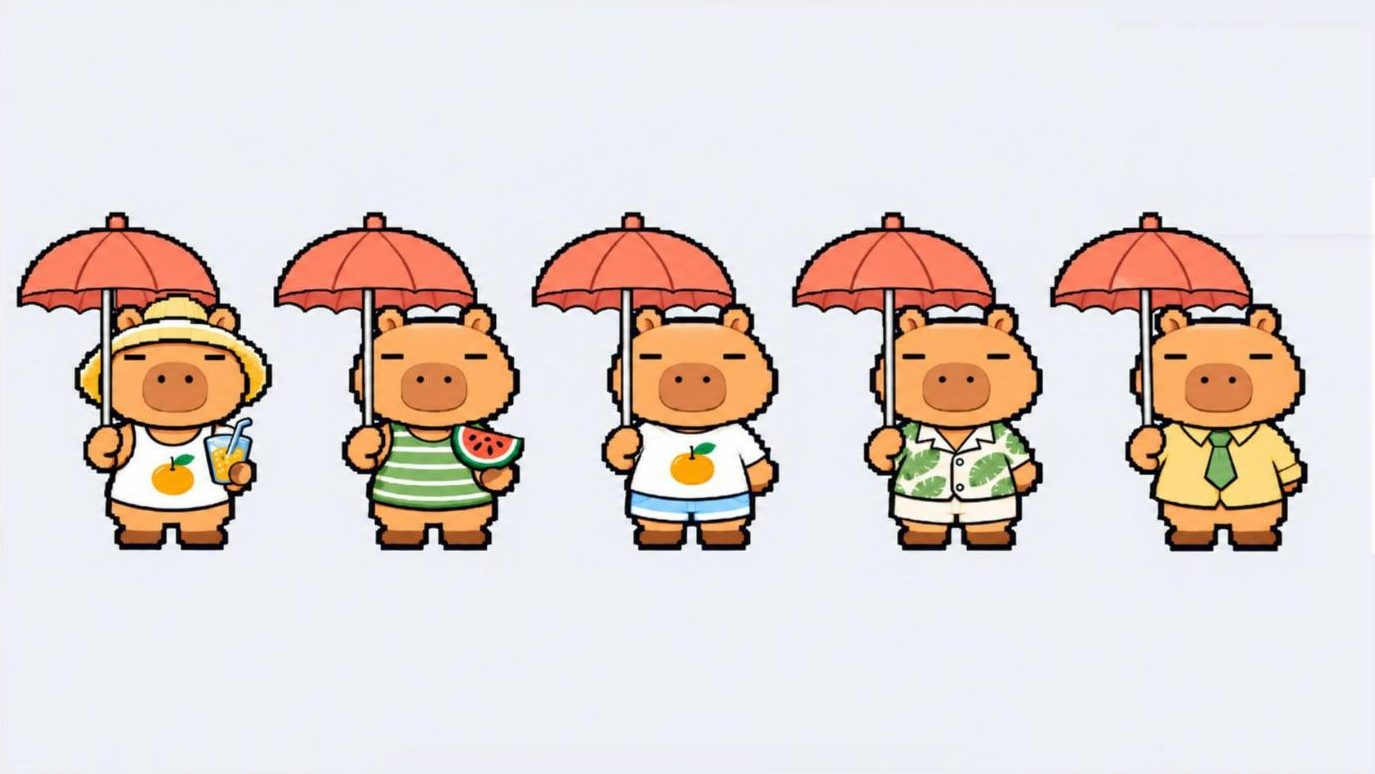
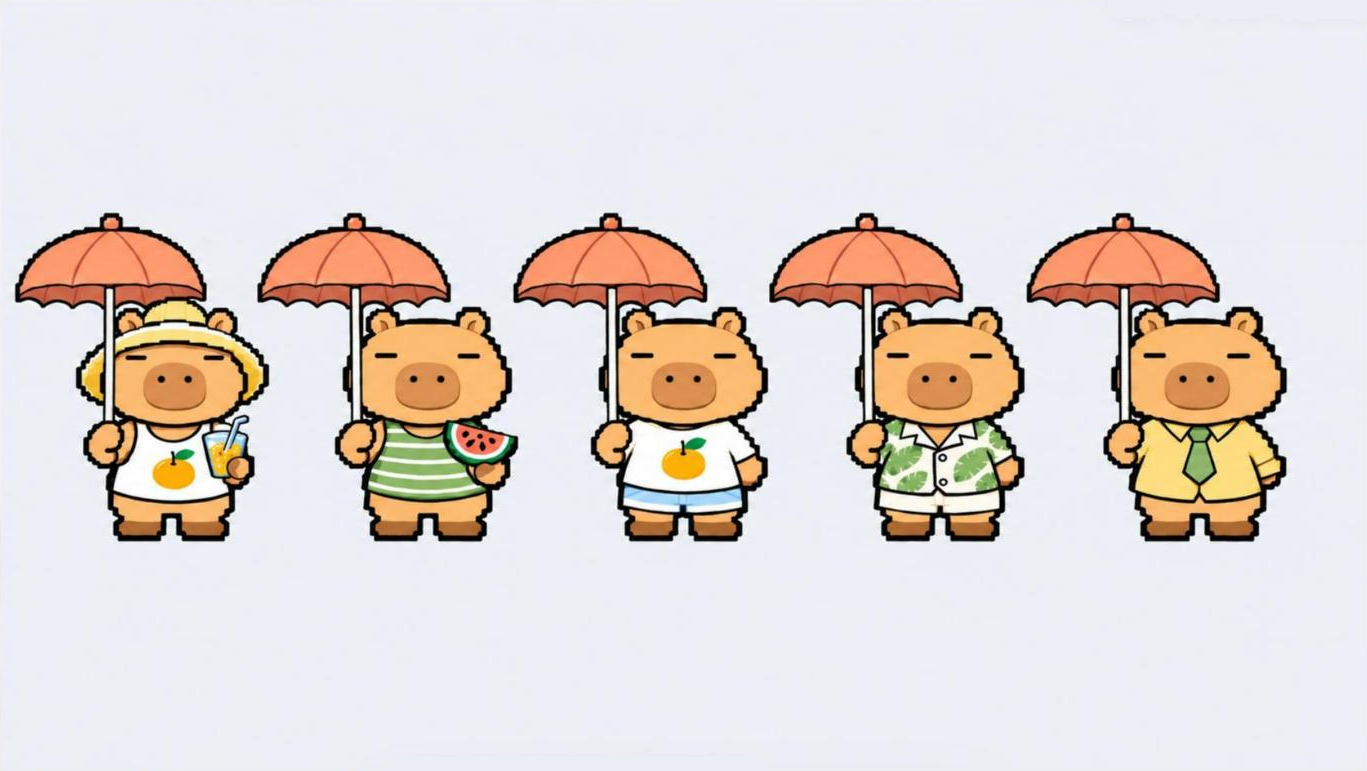
capy: m4 우산 1줄 꼭지↔막대 정렬 (shaft_guide 3px 안) + 1차 결과 보존
Claude-Session: https://claude.ai/code/session_01GWCoj9epSWVAj6uC75kAGB

Changed region(s): [[0.0, 0.249, 0.9525, 0.716]]

diff --git a/docs/characters/log.md b/docs/characters/log.md
@@ -899,3 +899,15 @@ THIS IS A COLOUR CONVERSION ONLY. Redraw the capybara of the first reference ima
 - 캡처: 100% 세로 3분할(408/184) → `capy/edit/m4-stage8-clean3.png` (920×1162). 상단 칩·하단 툴바 띠·오른쪽 여백만 패치.
 - 측정(외곽선 바깥 폭, clean2 → clean3): 턱 쪽 y500 564→598(+6%), y540 486→521(+7%), y560 429→460(+7%),
   볼 y460~480 +2~3%, 정수리·귀·눈·주둥이는 그대로. 목표 8%에 근접.
+
+### 정렬 4차 — 새 대화에서 1차 결과부터 다시 (01:35~)
+
+- 정정: 3차 문구가 "toward the viewer-right"였는데 1·2번 캐노피는 이미 막대보다 오른쪽 → 방향이 반대라 과보정. 제 실수.
+- 새 대화 "Edit Umbrella Canopy" (`…/c/6af49a62-c520-83e8-b4ec-74a4ca09561a`): 1차 결과(`edit/m4-umb-row1-v1.png`)
+  + 그 shaft_guide 첨부, "Only the FIRST … about 8 pixels toward the viewer-LEFT … Do not draw the red line." 1차 채택.
+- 결과는 ChatGPT가 줄 전체를 다시 그려 약 22% 작아짐(캐노피 폭 237→184, 주둥이 86→65). 100% 세로 2분할(off 213)
+  → `capy/m4-umb-row1.png` (1367×771). 아래 샷 머리띠 칩이 5번 캐노피에 겹쳐 아래 샷 위 48줄은 빼고 스티칭.
+- shaft_guide 원본은 이 그림의 밝은 캐노피를 hue<0.045에서 조각내 엉뚱한 값을 냄 → hue<0.075 + closing으로 재측정:
+  막대↔캐노피 중심 2·3·3·3·1px (3px 기준 통과). 같은 방식으로 1차는 8·1·1·5·1px.
+- 주의: 캐노피 색이 #FA986D로 밝아짐(1차 #F78865, 목표 #F26B5B). sprite_kit check(n=5) 플래그 없음, 눈 dy 0.09~0.12.
+  비교용으로 1차 결과를 `capy/edit/m4-umb-row1-v1.png`로 함께 보존.
